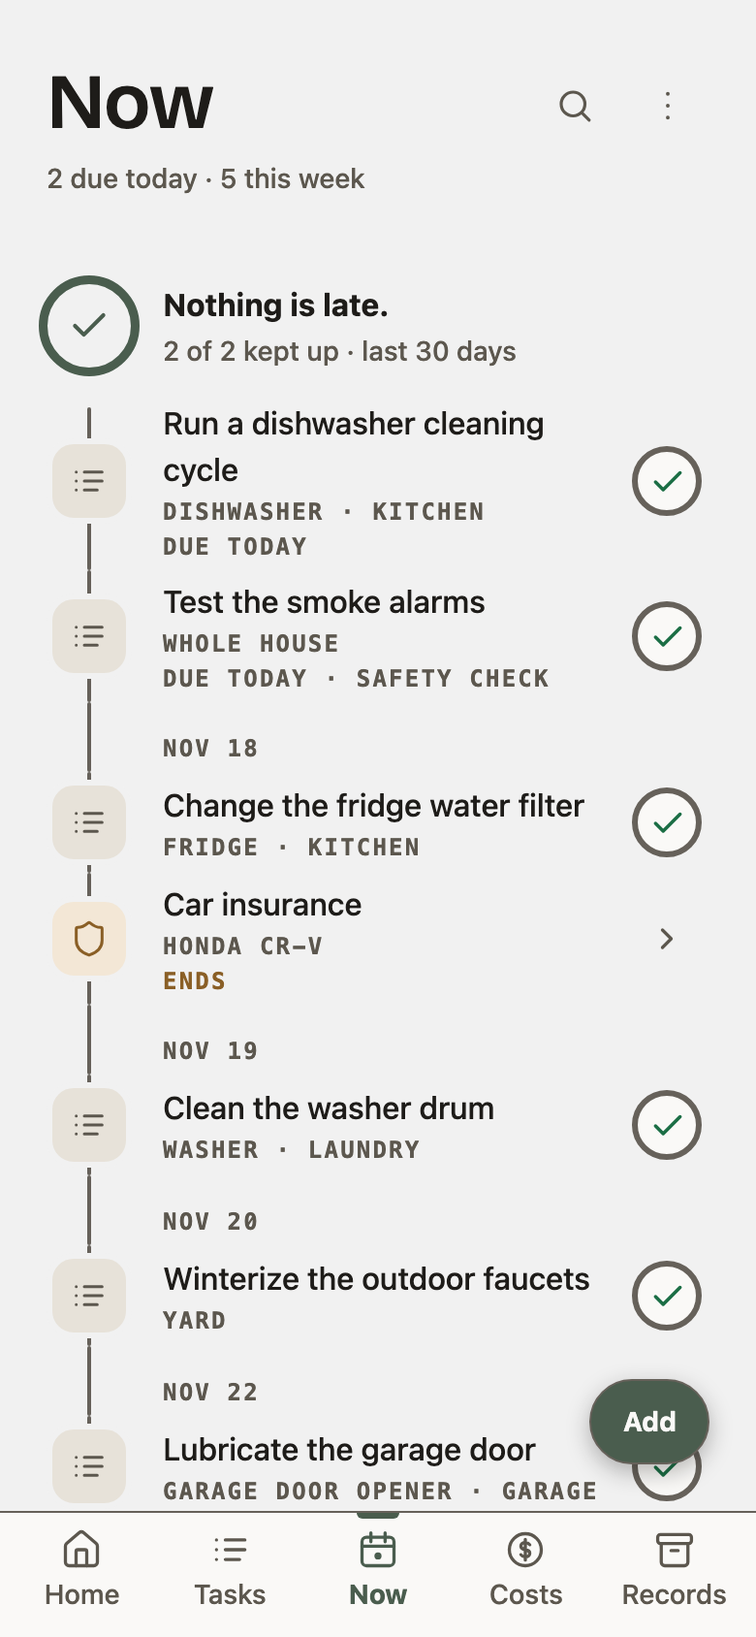
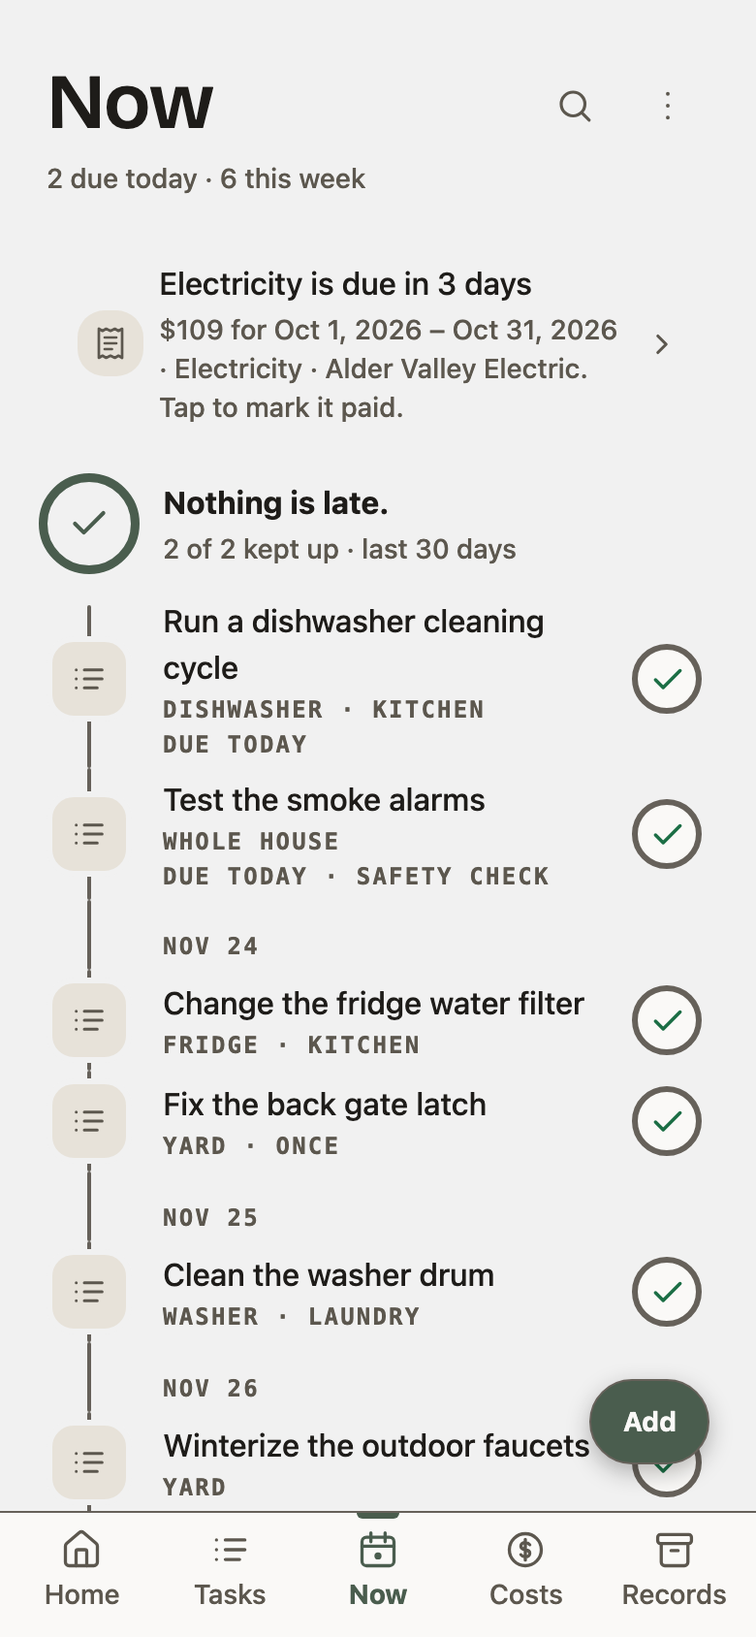
Bills, one-time tasks and the house's currency, and the screenshots taken again
- A section on bills: the day one is due, marking it paid, the receipt kept
  with the payment, and where a mortgage's payment went.
- A task repeats on a schedule or happens just once, the ring is solid for what
  was done and faint for what is late, and work left far behind stops nudging.
- A question on where the app works: currency, week and seasons by region.
- The server runs on a Mac or PC, a NAS or a Raspberry Pi.
- Every screenshot taken again, and two new ones: a bill, and the house in a
  laptop's browser. The invented house's dates all move together, so a capture
  on any day shows no cover run out.

diff --git a/index.html b/index.html
@@ -68,7 +68,9 @@ if(t==="dark"||t==="light")d.setAttribute("data-theme",t);}catch(e){}d.classList
         "Reminders scheduled on the phone, for tasks and for renewals",
         "Things with their warranty, repairs, receipts and what has been spent on them",
         "Policies with their term and end date, and a reminder before they run out",
-        "What the house costs, month by month and year by year",
+        "What the house costs, month by month and year by year, in the currency you pick",
+        "Bills with the day they are due, marked paid, with the receipt kept",
+        "Tasks on a schedule, or just once",
         "A House manual, with alarm codes and key safe numbers hidden until tapped",
         "Bills, serial plates and documents read on the phone",
         "A weekly backup, and a readable copy that opens without HomeCubbie",
@@ -125,7 +127,7 @@ if(t==="dark"||t==="light")d.setAttribute("data-theme",t);}catch(e){}d.classList
           <div class="screen" style="--shot-light:url('assets/screens/home-light.png');--shot-dark:url('assets/screens/home-dark.png')"></div>
         </div>
         <div class="device front">
-          <div class="screen" role="img" aria-label="The Now screen: a ring saying nothing is late, then two tasks due today and five this week."
+          <div class="screen" role="img" aria-label="The Now screen: the electricity bill is due in three days, a ring says nothing is late, two tasks are due today, and a one-time task is among the week's."
                style="--shot-light:url('assets/screens/now-light.png');--shot-dark:url('assets/screens/now-dark.png')"></div>
         </div>
       </div>
@@ -168,9 +170,9 @@ if(t==="dark"||t==="light")d.setAttribute("data-theme",t);}catch(e){}d.classList
           <p>Open the kitchen and everything about it is there: the Things in it,
           what needs doing, and what was done — by whom, and for how much.</p>
           <p>A ring around each room shows how much of what came due in the last
-          thirty days was kept up, and <strong>stays open while anything is
-          late</strong>. The house has one too, at the top of Now, with a sentence
-          that says which rooms need you.</p>
+          thirty days was kept up: <strong>solid for what was done, faint for
+          what is late</strong>. The house has one too, at the top of Now, with a
+          sentence that says which rooms need you.</p>
         </div>
         <div class="feature-art">
           <div class="device">
@@ -213,7 +215,7 @@ if(t==="dark"||t==="light")d.setAttribute("data-theme",t);}catch(e){}d.classList
         </div>
         <div class="feature-art">
           <div class="device">
-            <div class="screen" role="img" aria-label="Car insurance, marked renew soon: it ends November 18, this term cost $36 more than the last, and its policy number and claims line are ready to copy."
+            <div class="screen" role="img" aria-label="Car insurance, marked renew soon: it ends November 28, this term cost $36 more than the last, and its policy number and claims line are ready to copy."
                  style="--shot-light:url('assets/screens/policy-light.png');--shot-dark:url('assets/screens/policy-dark.png')"></div>
           </div>
         </div>
@@ -226,13 +228,34 @@ if(t==="dark"||t==="light")d.setAttribute("data-theme",t);}catch(e){}d.classList
           <p>Every bill, premium and repair adds up in one place, <strong>month by
           month and year by year</strong>: the electricity, the property tax, the
           insurance, the plumber.</p>
-          <p>It compares this year with the last, and says what is coming: the
-          renewals ahead, with what each one cost last time.</p>
+          <p>It compares this year with the last, in the currency you pick, and
+          says what is coming: the bills due next, and the renewals ahead with
+          what each one cost last time.</p>
         </div>
         <div class="feature-art">
           <div class="device">
-            <div class="screen" role="img" aria-label="Costs for 2026: $11,723 so far, about $1,066 a month and $250 more than by this time last year, then month by month, split into accounts, policies and unplanned repairs."
+            <div class="screen" role="img" aria-label="Costs for 2026: $11,936 so far, about $1,085 a month and $581 more than by this time last year, then month by month, split into accounts, policies and unplanned repairs."
                  style="--shot-light:url('assets/screens/costs-light.png');--shot-dark:url('assets/screens/costs-dark.png')"></div>
+          </div>
+        </div>
+      </div>
+
+      <div class="feature">
+        <div>
+          <p class="kicker"><svg viewBox="0 0 24 24" aria-hidden="true"><path d="M4 2v20l2.5-1.5L9 22l3-1.5L15 22l2.5-1.5L20 22V2l-2.5 1.5L15 2l-3 1.5L9 2 6.5 3.5Z"/><path d="M8 8h8M8 12h8M8 16h5"/></svg>Accounts</p>
+          <h3>Which bill is next, and which are paid</h3>
+          <p>Give a bill the day it is due and it goes on Now two weeks ahead.
+          <strong>It stays there until you mark it paid</strong>, and the receipt
+          is kept with the payment. Every Account keeps its bills, year by year:
+          the electricity, the water, the internet, the property tax.</p>
+          <p>A mortgage keeps where each payment went: the interest, the loan and
+          the escrow. What escrow pays is still counted once in Costs, and nothing
+          asks you to pay it.</p>
+        </div>
+        <div class="feature-art">
+          <div class="device">
+            <div class="screen" role="img" aria-label="The electricity account: a chart of what each bill came to, October's $109 due November 25 with a Mark as paid button, and the months before it, each with the day it was paid."
+                 style="--shot-light:url('assets/screens/bill-light.png');--shot-dark:url('assets/screens/bill-dark.png')"></div>
           </div>
         </div>
       </div>
@@ -311,7 +334,8 @@ if(t==="dark"||t==="light")d.setAttribute("data-theme",t);}catch(e){}d.classList
           <span class="glyph" aria-hidden="true"><svg viewBox="0 0 24 24"><rect x="3" y="5" width="18" height="16" rx="2"/><path d="M8 2.5v5M16 2.5v5M3 10h18"/></svg></span>
           <h3>Say when</h3>
           <p>Type <q>twice a year</q>, <q>every fall</q> or <q>the first Saturday
-          of the month</q>, and that becomes the schedule.</p>
+          of the month</q>, and that becomes the schedule. A job that happens just
+          once gets a day instead.</p>
         </div>
         <div class="card">
           <span class="glyph" aria-hidden="true"><svg viewBox="0 0 24 24"><circle cx="11" cy="11" r="7"/><path d="m20.5 20.5-3.7-3.7"/></svg></span>
@@ -444,10 +468,19 @@ if(t==="dark"||t==="light")d.setAttribute("data-theme",t);}catch(e){}d.classList
         </figure>
       </div>
 
+      <figure class="laptop">
+        <div class="window">
+          <div class="bar" aria-hidden="true"><i></i><i></i><i></i></div>
+          <div class="screen wide" role="img" aria-label="14 Alder Street in a laptop's browser: Now on the left, with the electricity bill due in three days, and November's calendar on the right, each task due and a renewal marked on its day."
+               style="--shot-light:url('assets/screens/laptop-light.png');--shot-dark:url('assets/screens/laptop-dark.png')"></div>
+        </div>
+        <figcaption>The same house in a laptop's browser, from the household's own server.</figcaption>
+      </figure>
+
       <div class="default-note">
         <p><strong>Just this phone stays the default.</strong> Sharing is
         something a household chooses. The server runs on any computer that stays
-        on at home — a Mac mini, a spare laptop, a NAS — with Node or Docker, and
+        on at home — a Mac or PC, a NAS, a Raspberry Pi — with Node or Docker, and
         the app walks you through setting it up.</p>
       </div>
     </div>
@@ -574,7 +607,7 @@ if(t==="dark"||t==="light")d.setAttribute("data-theme",t);}catch(e){}d.classList
         <li><dfn>Property</dfn><span>The house. The root of everything.</span></li>
         <li><dfn>Place</dfn><span>A room or an area.</span></li>
         <li><dfn>Thing</dfn><span>Something owned, living in a Place.</span></li>
-        <li><dfn>Task</dfn><span>Something to do. Needs a schedule to ever surface.</span></li>
+        <li><dfn>Task</dfn><span>Something to do, on a schedule or just once.</span></li>
         <li><dfn>Policy</dfn><span>Anything with a term and an end date — insurance, a warranty, a registration.</span></li>
         <li><dfn>Event</dfn><span>Something that already happened — a repair, a replacement, a purchase.</span></li>
         <li><dfn>Note</dfn><span>A fact about the house. No date, no reminder.</span></li>
@@ -642,12 +675,21 @@ if(t==="dark"||t==="light")d.setAttribute("data-theme",t);}catch(e){}d.classList
           server.</p></div>
         </details>
         <details>
+          <summary>Does it work where I live?</summary>
+          <div><p>Yes. You pick the house's currency, and amounts are typed and
+          shown the way your region writes them. Calendars start the week on your
+          day, and the seasons follow the house, so spring starts in September
+          south of the equator. The app's words are in English.</p></div>
+        </details>
+        <details>
           <summary>What does it remind me about?</summary>
           <div><p>Upkeep, on the day it falls due — the air filter, the gutters,
-          the smoke alarms — with a nudge every third day while anything is late.
-          And a Policy, twice before its term ends, so the home insurance renewal
-          isn't a surprise. Once you allow notifications, they are scheduled on
-          the phone itself, so they arrive with no signal and no server.</p></div>
+          the smoke alarms — with a nudge every third day while it is late. Work
+          left far enough behind folds into one line on Now and stops nudging; a
+          safety check never does. And a Policy, twice before its term ends, so
+          the home insurance renewal isn't a surprise. Once you allow
+          notifications, they are scheduled on the phone itself, so they arrive
+          with no signal and no server.</p></div>
         </details>
         <details>
           <summary>Can it keep an inventory of what's in the house?</summary>

diff --git a/tools/screens/capture-screens.js b/tools/screens/capture-screens.js
@@ -28,6 +28,7 @@ const SCREENS = [
   ["thing", [["goto", "/home"], ["click", "Kitchen"], ["click", "Fridge"]]],
   ["policy", [["goto", "/records/policies"], ["click", "Car insurance"]]],
   ["costs", [["goto", "/costs"]]],
+  ["bill", [["goto", "/records/accounts"], ["click", "Electricity"]]],
   ["house", [["goto", "/home/about"]]],
   ["place", [["goto", "/home"], ["click", "Kitchen"]]],
   ["suggest", [["goto", "/home"], ["click", "Kitchen"], ["click", "Add here"], ["click", "Task in Kitchen"],
@@ -90,12 +91,12 @@ async function linkPreview() {
   if (!/14 Alder Street is back/.test(restored)) throw new Error("The restore did not finish:\n" + restored.slice(0, 800));
   await ctx.close();
 
-  // 4. Six screens, light and dark.
+  // 4. Every screen, light and dark.
   //
-  // The web build runs in development, so an error the app logs shows as a
-  // red toast over the tab bar. A release build has no such overlay, so it is
-  // closed before each screenshot -- and every error is printed at the end,
-  // so closing it never hides one. Report what it prints to the app.
+  // A development build shows an error the app logs as a red toast over the
+  // tab bar. A release build has no such overlay, so it is closed before each
+  // screenshot -- and every error is printed at the end, so closing it never
+  // hides one. Report what it prints to the app.
   const logged = new Set();
   for (const scheme of ["light", "dark"]) {
     [ctx, page] = await open(profile, scheme);

diff --git a/styles.css b/styles.css
@@ -488,6 +488,21 @@ section { padding: clamp(3.5rem, 8vw, 6.5rem) 0; }
 .points .glyph { width: 40px; height: 40px; }
 .points .glyph svg { width: 20px; height: 20px; }
 
+/* the house in a laptop's browser: a window, the screen's own shape */
+.laptop { margin: clamp(2rem, 5vw, 3.5rem) 0 0; }
+.laptop .window {
+  max-width: 60rem;
+  margin: 0 auto;
+  border: 1px solid var(--rule);
+  border-radius: var(--r-lg);
+  background: var(--card);
+  box-shadow: var(--shadow-lift);
+  overflow: hidden;
+}
+.laptop .bar { display: flex; gap: 7px; padding: 11px 14px; border-bottom: 1px solid var(--rule); }
+.laptop .bar i { width: 10px; height: 10px; border-radius: 50%; background: var(--rule); }
+.laptop figcaption { font-size: 0.875rem; color: var(--faint); margin-top: var(--s4); text-align: center; }
+
 .default-note {
   margin-top: var(--s6);
   padding: var(--s4) var(--s5);
@@ -814,6 +829,8 @@ code {
   border-radius: 38px;
   background: var(--paper) var(--shot-light) center / cover no-repeat;
 }
+
+.screen.wide { aspect-ratio: 1280 / 800; border-radius: 0; }
 
 @media (prefers-color-scheme: dark) {
   :root:not([data-theme="light"]) .screen { background-image: var(--shot-dark); }

diff --git a/support.html b/support.html
@@ -76,8 +76,8 @@ if(t==="dark"||t==="light")d.setAttribute("data-theme",t);}catch(e){}d.classList
       </details>
       <details>
         <summary>What do I need to run the server?</summary>
-        <div><p>A computer that stays on at home — a Mac mini, a spare laptop, a
-        NAS — with Node 22.18 or later, or Docker. The server needs nothing else
+        <div><p>A computer that stays on at home — a Mac or PC, a NAS, a Raspberry
+        Pi — with Node 22.18 or later, or Docker. The server needs nothing else
         installed and never contacts anyone.</p>
         <p>Start in the app: <strong>Settings › Sharing</strong> has a setup guide
         that gives you the command to run, connects this phone to the server, and

diff --git a/tools/screens/make-house.py b/tools/screens/make-house.py
@@ -23,6 +23,19 @@ NOW = "2026-11-01T15:00:00.000Z"
 U = lambda: str(uuid.uuid4())
 TS = {"created_at": NOW, "updated_at": NOW, "deleted_at": None}
 
+# The house is written as it stood on 12 November 2026. Its tasks, its policies
+# and what is due move by the days since, and its bills by the months since, so
+# a capture on any day shows the same house: nothing late, two tasks due today,
+# a handful this week, a bill due in three days and no cover run out.
+WRITTEN = date(2026, 11, 12)
+TODAY = date.today()
+SHIFT_DAYS = TODAY.toordinal() - WRITTEN.toordinal()
+SHIFT_MONTHS = (TODAY.year - WRITTEN.year) * 12 + TODAY.month - WRITTEN.month
+
+def moved(day):
+    """A date as written, moved by the days since."""
+    return date.fromordinal(date.fromisoformat(day).toordinal() + SHIFT_DAYS).isoformat()
+
 rows = {}
 def add(table, row):
     rows.setdefault(table, []).append(row)
@@ -99,7 +112,7 @@ def policy(kind, provider, name=None, asset=None, prop=None, terms=(), fields=()
     for starts, ends, cost, period in terms:
         term_ids.append(U())
     for i, (starts, ends, cost, period) in enumerate(terms):
-        add("policy_term", {"id": term_ids[i], "policy_id": pid, "starts_on": starts, "ends_on": ends,
+        add("policy_term", {"id": term_ids[i], "policy_id": pid, "starts_on": moved(starts), "ends_on": moved(ends),
                             "cost_cents": cost, "cost_period": period,
                             "superseded_by": term_ids[i + 1] if i + 1 < len(term_ids) else None,
                             **P, **TS, "cost_period_canonical": period, "actor_person_id": None})
@@ -182,21 +195,34 @@ def month_end(y, m):
     nxt = date(y + (m == 12), m % 12 + 1, 1)
     return date.fromordinal(nxt.toordinal() - 1).isoformat()
 
-def bills(acct, provider, amounts, start=(2025, 11), step=1):
-    y, m = start
-    for amt in amounts:
-        end_m, end_y = m + step - 1, y
-        while end_m > 12:
-            end_m -= 12; end_y += 1
-        add("account_bill", {"id": U(), "account_id": acct, "period_start": date(y, m, 1).isoformat(),
-                             "period_end": month_end(end_y, end_m), "amount_cents": amt, "notes": None, **P, **TS,
-                             "provider_person_id": provider, "actor_person_id": None})
-        m += step
-        while m > 12:
-            m -= 12; y += 1
+def month_after(y, m, months):
+    """The month that many months after this one, before it if negative."""
+    count = y * 12 + (m - 1) + months
+    return count // 12, count % 12 + 1
+
+def days_after(day, days):
+    return date.fromordinal(date.fromisoformat(day).toordinal() + days).isoformat()
+
+def bills(acct, provider, amounts, start=(2025, 11), step=1, last_due_in=None):
+    """One bill per amount. With `last_due_in`, every bill was paid twelve days
+    after its period ended, except the last, which is due in that many days."""
+    for i, amt in enumerate(amounts):
+        y, m = month_after(*start, i * step + SHIFT_MONTHS)
+        ends = month_end(*month_after(y, m, step - 1))
+        last = i == len(amounts) - 1
+        due = None
+        if last_due_in is not None:
+            due = date.fromordinal(TODAY.toordinal() + last_due_in).isoformat() if last else days_after(ends, 15)
+        bill = add("account_bill", {"id": U(), "account_id": acct, "period_start": date(y, m, 1).isoformat(),
+                                    "period_end": ends, "amount_cents": amt, "notes": None, **P, **TS,
+                                    "provider_person_id": provider, "actor_person_id": None, "due_on": due})
+        if last_due_in is not None and not last:
+            add("bill_payment", {"id": U(), "account_bill_id": bill, "paid_on": days_after(ends, 12),
+                                 "amount_cents": None, "covers": "all", "paid_by": "you", **P,
+                                 "actor_person_id": None, **TS})
 
 elec = account("electricity", power, None, "4410-2276-01")
-bills(elec, power, [14200, 12900, 11300, 9600, 9200, 13100, 16900, 17400, 14300, 10100, 11800, 13600, 14900, 12700, 10400, 9100, 9800, 14200, 17800, 18600, 15100, 10900], (2025, 1))
+bills(elec, power, [14200, 12900, 11300, 9600, 9200, 13100, 16900, 17400, 14300, 10100, 11800, 13600, 14900, 12700, 10400, 9100, 9800, 14200, 17800, 18600, 15100, 10900], (2025, 1), last_due_in=3)
 wat = account("water", water, None, "W-30817")
 bills(wat, water, [5800, 6100, 8400, 8900, 7200, 6200, 5900, 6400, 7800, 9100, 8700], (2025, 1), 2)
 net = account("internet", fiber, None, "CF-0091142")
@@ -211,18 +237,12 @@ bills(tax, county, [298000, 298000, 315000, 315000], (2025, 1), 6)
 cats = {name: add("category", {"id": U(), "name": name, **TS, "household_id": None, "parent_category_id": None, **P})
         for name in ["Safety", "Heating and cooling", "Appliance care", "Outside", "Car"]}
 
-# The tasks' dates are written as they stood on 12 November 2026, when Now
-# showed two late, two today and a handful this week. They move by the days
-# since, so a capture on any day shows the same Now.
-SHIFT_DAYS = date.today().toordinal() - date(2026, 11, 12).toordinal()
-
 def task(name, type_, cat, anchor, months, asset=None, loc=None, minutes=None, cost=None, safety=0):
-    anchor = date.fromordinal(date.fromisoformat(anchor).toordinal() + SHIFT_DAYS).isoformat()
     tid = add("task_definition", {"id": U(), "name": name, "description": None, "type": type_,
                                   "category_id": cats[cat], "estimated_minutes": minutes, "instructions": None, **TS,
                                   "household_id": None, **P, "expected_cost_cents": cost, "safety_critical": safety})
     add("schedule", {"id": U(), "task_definition_id": tid, "location_id": None, "recurrence_type": "EVERY_N_MONTHS",
-                     "anchor_date": anchor, "interval_days": None, "interval_months": months, "week_ordinal": None,
+                     "anchor_date": moved(anchor), "interval_days": None, "interval_months": months, "week_ordinal": None,
                      "day_of_week": None, "month_of_year": None, "day_of_month": None, "season": None,
                      "days_after_completion": None, "extra_config": None, **TS, "seasonal_trigger": None, **P,
                      "active_from_month": None, "active_to_month": None})
@@ -230,6 +250,15 @@ def task(name, type_, cat, anchor, months, asset=None, loc=None, minutes=None, c
         add("task_asset", {"id": U(), "task_definition_id": tid, "asset_id": asset, **TS, **P})
     if loc:
         add("task_location", {"id": U(), "task_definition_id": tid, "location_id": loc, **TS, **P})
+
+def once(name, type_, cat, due, loc, minutes=None):
+    """A job that happens one time: a to-do on a day, with no schedule."""
+    tid = add("task_definition", {"id": U(), "name": name, "description": None, "type": type_,
+                                  "category_id": cats[cat], "estimated_minutes": minutes, "instructions": None, **TS,
+                                  "household_id": None, **P, "expected_cost_cents": None, "safety_critical": 0})
+    add("task_location", {"id": U(), "task_definition_id": tid, "location_id": loc, **TS, **P})
+    add("task_occurrence", {"id": U(), "task_definition_id": tid, "schedule_id": None, "location_id": loc,
+                            "asset_id": None, "due_date": moved(due), "status": "SCHEDULED", **TS, **P})
 
 task("Replace the furnace filter", "Replacement", "Heating and cooling", "2026-11-05", 3, furnace, minutes=10, cost=1800)
 task("Clean the gutters", "Maintenance", "Outside", "2026-11-09", 6, loc=yard, minutes=90)
@@ -243,6 +272,7 @@ task("Rotate the tires", "Maintenance", "Car", "2026-11-25", 6, car)
 task("Test the sump pump", "Inspection", "Safety", "2026-12-01", 3, loc=mech, minutes=10)
 task("Flush the water heater", "Maintenance", "Appliance care", "2026-12-06", 12, heater, minutes=45)
 task("Vacuum the fridge coils", "Cleaning", "Appliance care", "2027-01-10", 6, fridge, minutes=20)
+once("Fix the back gate latch", "Project", "Outside", "2026-11-14", yard, minutes=30)
 task("Tune up the lawn mower", "Maintenance", "Outside", "2027-03-15", 12, mower, minutes=30)
 
 # ---------------- write the archive ----------------

diff --git a/tools/screens/README.md b/tools/screens/README.md
@@ -7,8 +7,9 @@ Run this whenever a screen the site shows changes in the app.
 
 Every screen shows **14 Alder Street**, a house that does not exist.
 `make-house.py` writes it as a HomeCubbie backup file. It has 13 places,
-8 Things, 13 tasks, car, home and appliance policies, five billed accounts, a
-few repairs and the usual notes. Phone numbers are in the 555-01xx range, which
+8 Things, 13 tasks on a schedule and one that happens once, car, home and
+appliance policies, five billed accounts with one bill to pay, a few repairs
+and the usual notes. Phone numbers are in the 555-01xx range, which
 is reserved for fiction. Brand and model numbers name products, not people.
 
 **Don't use the app's "Seed sample data" instead.** Only this invented house
@@ -16,7 +17,9 @@ goes on the site.
 
 ## Running it
 
-1. In the app repository, start its web build on a spare port. Run it through
+1. In the app repository, serve its web build on a spare port. An exported
+   build is the one to use, because it has nothing in it that only development
+   has; the development server works too. Run it through
    `~/.claude/bin/heavy-run`, so it doesn't overlap another heavy job:
 
    ```sh
@@ -38,7 +41,7 @@ goes on the site.
      and schema version;
    - `make-house.py` writes 14 Alder Street in that format;
    - Settings › Restore loads it, as a person would restore a backup;
-   - six screens are captured in light and in dark, at 390 x 844 and 2x;
+   - nine screens are captured in light and in dark, at 390 x 844 and 2x;
    - `og.html` is rendered to `assets/og.png`.
 
    When only the mark in `og.png` has changed, `--og-only` renders it again
@@ -48,8 +51,12 @@ goes on the site.
    node tools/screens/capture-screens.js --og-only
    ```
 
-3. Stop the web server, then check the site in a browser in both themes before
-   committing.
+3. Stop the web server. `laptop-light.png` and `laptop-dark.png` come from the
+   app repository instead, because they show a browser joined to a household's
+   own server: `tools/web-app/laptop-picture.live.test.ts` there says how. It
+   reads the same `make-house.py`.
+
+4. Check the site in a browser in both themes before committing.
 
 ## When it breaks
 
@@ -65,8 +72,10 @@ goes on the site.
   `transform-origin` attribute.
 - **A click times out.** A screen was renamed. The `SCREENS` list in
   `capture-screens.js` names the text it clicks: Kitchen, Fridge, Car insurance.
-- **Now looks different.** Due dates come from each schedule's start date in
-  `make-house.py`, which moves them by the days since 12 November 2026, so
-  Now shows the same two late, two today and a handful this week on any day.
-  If Now still looks wrong, the app's rules for what's due have changed:
-  move the start dates written there.
+- **Now looks different.** Every date in `make-house.py` is written as it stood
+  on 12 November 2026. Tasks, policies and the bill to pay move by the days
+  since, and the other bills by the months, so any day shows nothing late, two
+  due today, a handful this week and no cover run out. If Now still looks
+  wrong, the app's rules for what's due have changed: move the dates written
+  there. Costs is the exception: it's drawn by calendar year, so a capture in
+  the first months of a year shows a short one.
